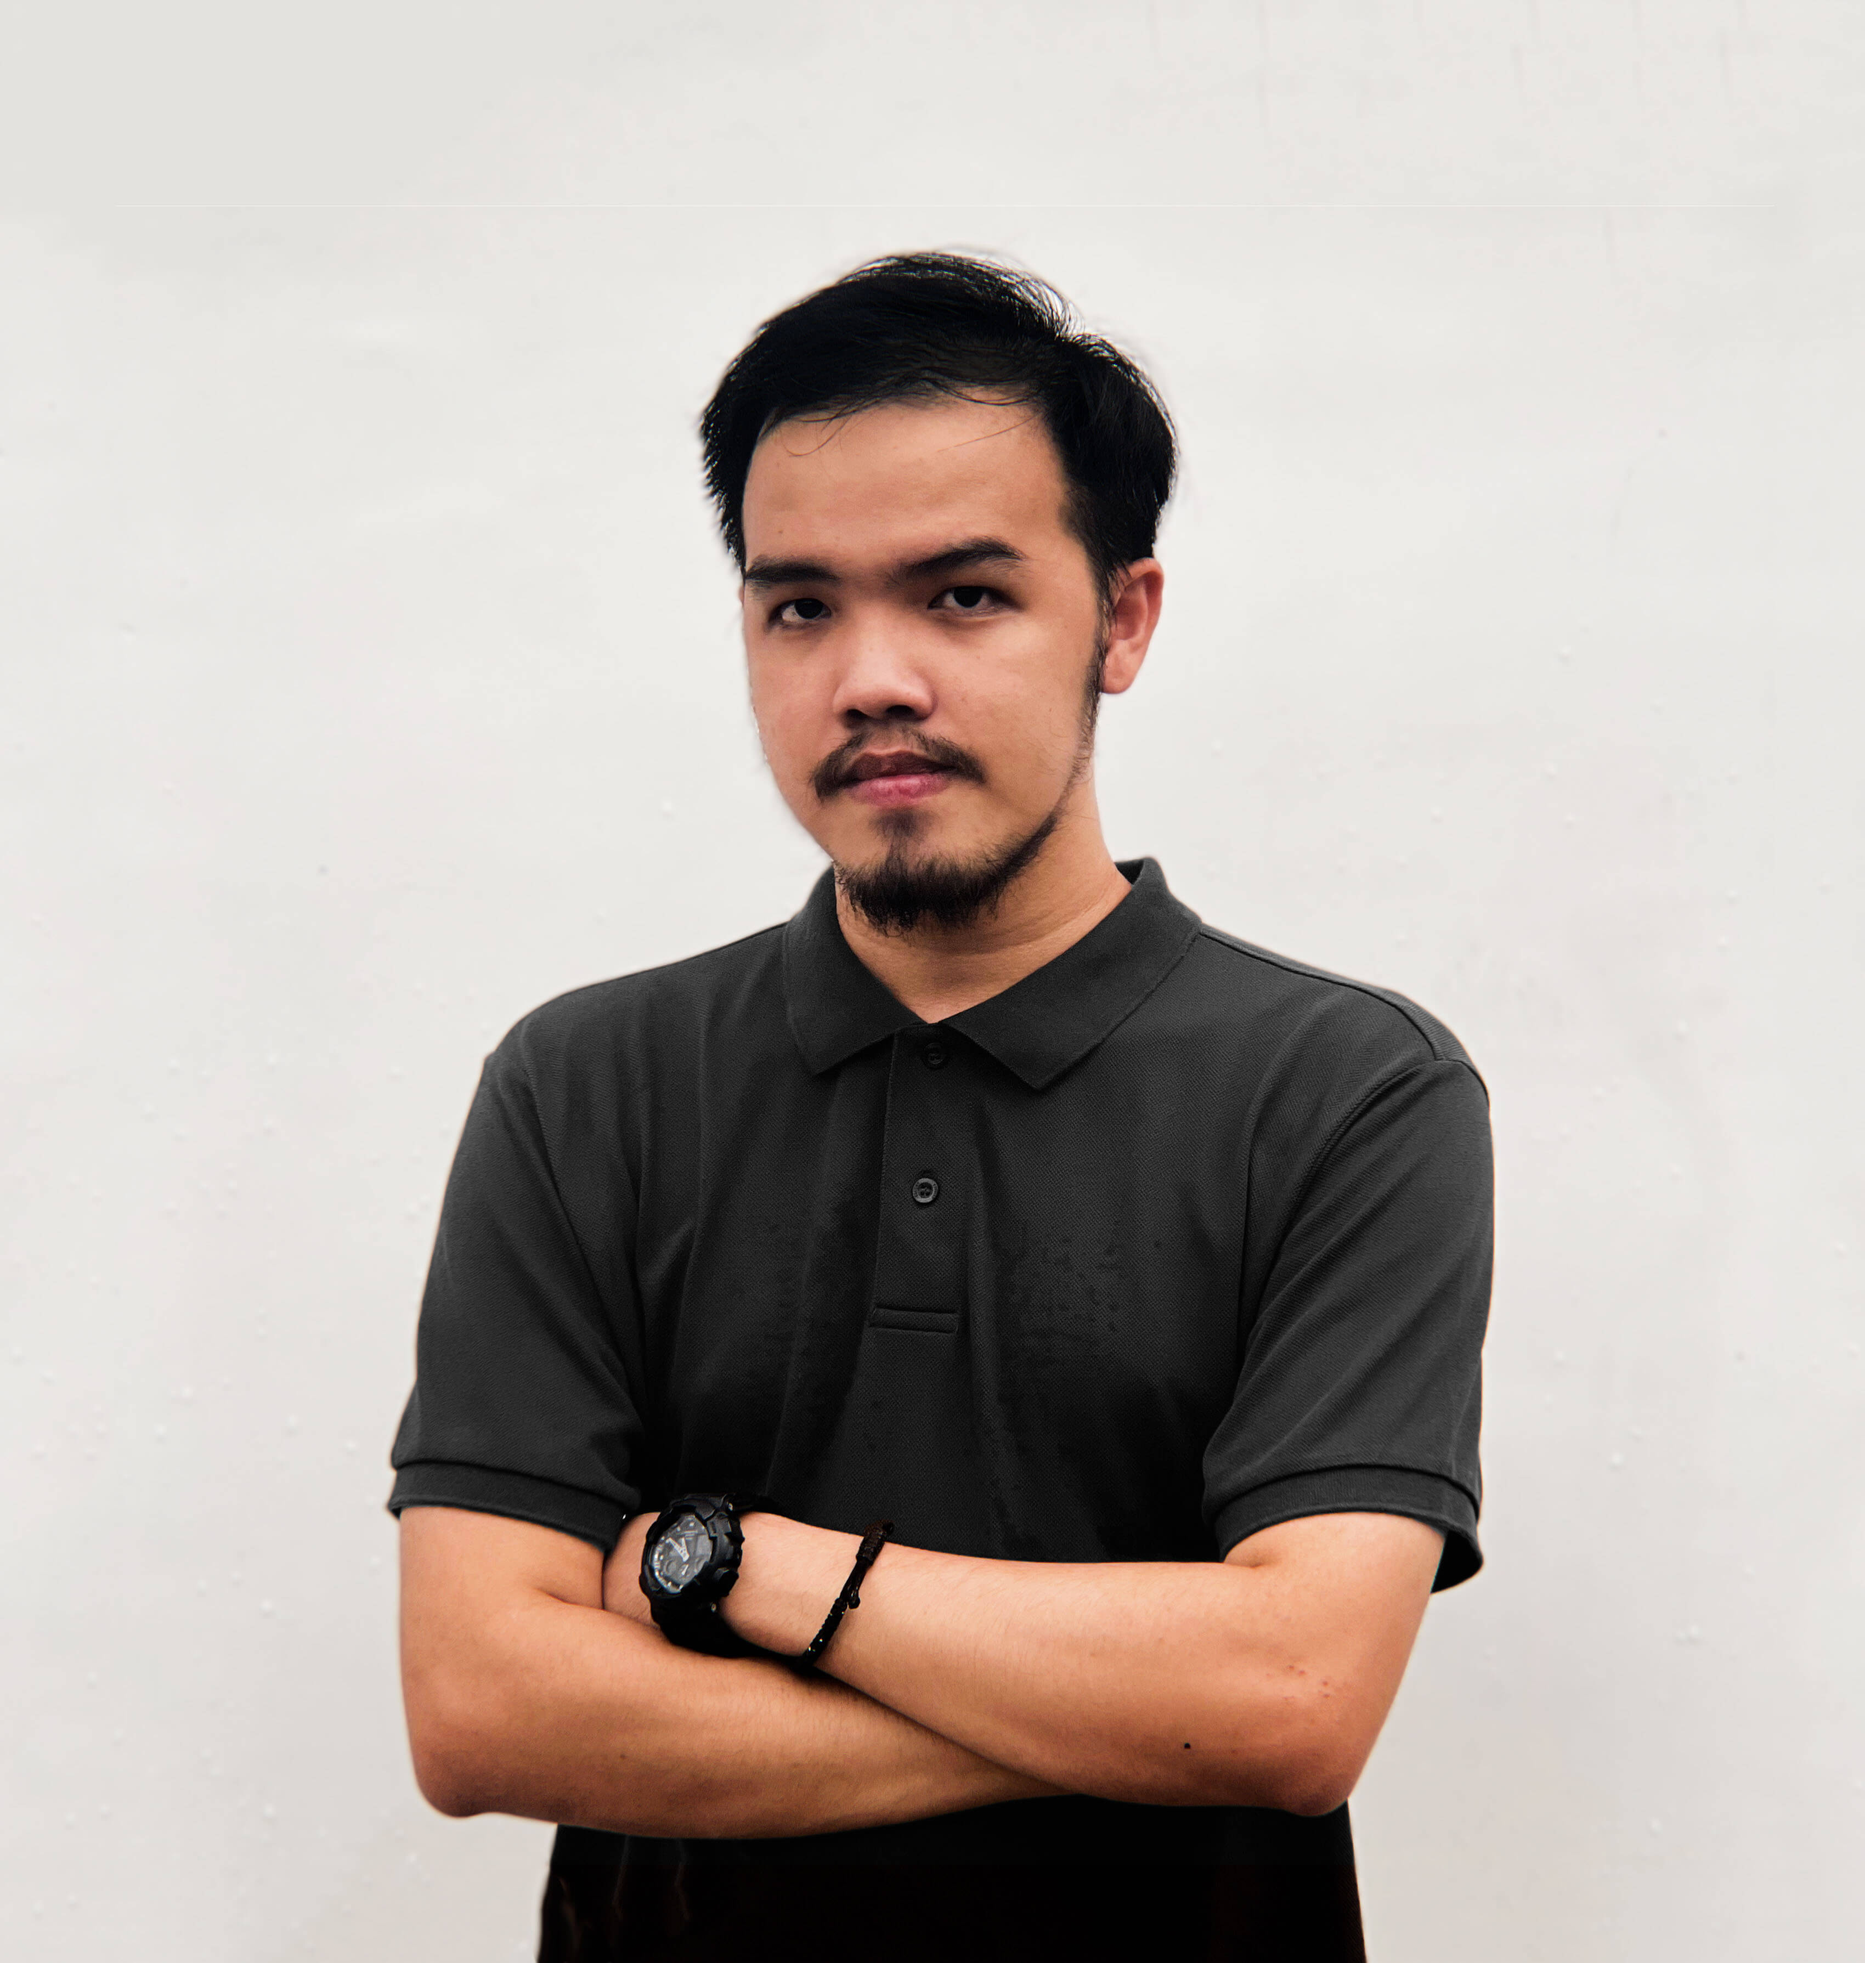
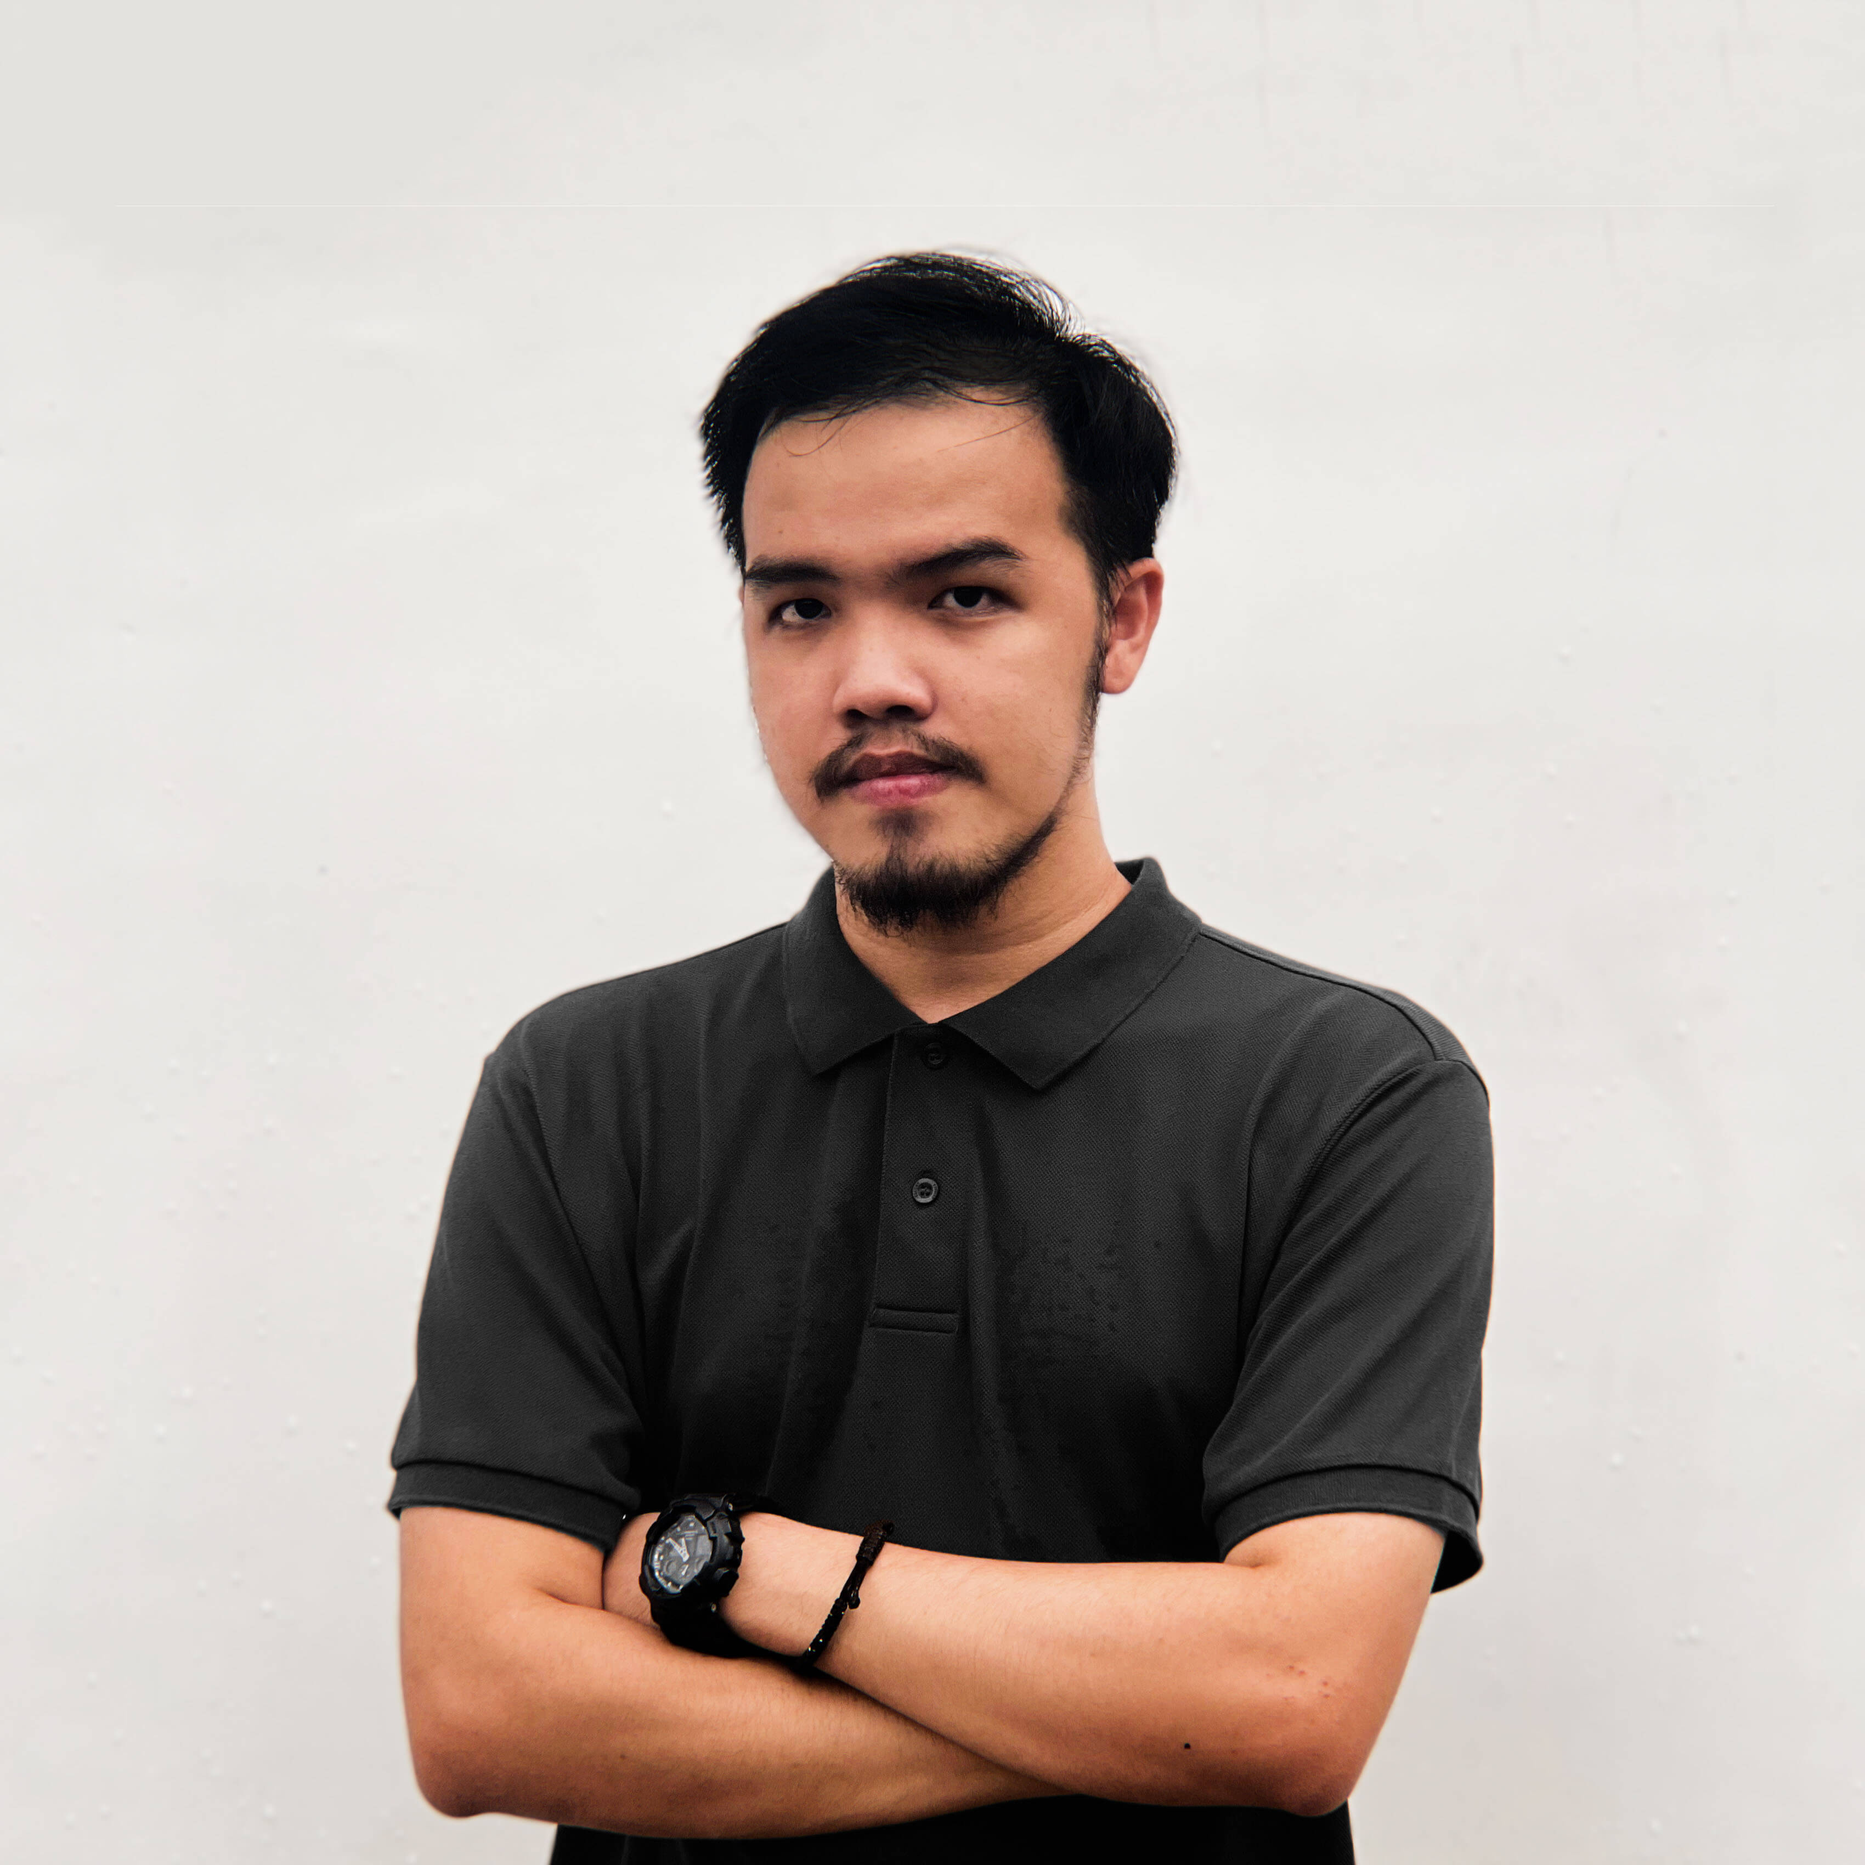
:lipstick: replace profile with square one and add shadow

diff --git a/sections/AboutSection.tsx b/sections/AboutSection.tsx
@@ -121,7 +121,7 @@ const AboutSection: React.FC = () => {
           </div>
           <div className="md:flex md:space-x-8">
             <div className="basis-2/5 lg:basis-1/2 xl:basis-3/5 flex justify-center items-center">
-              <div className="relative w-72">
+              <div className="relative w-72 h-72">
                 <svg
                   width="96"
                   height="21"
@@ -132,14 +132,14 @@ const AboutSection: React.FC = () => {
                   <path d="M79.2202 0.959991L62.7802 17.32L46.3301 0.959991L29.8902 17.32L13.4501 0.959991L0.410156 13.94L0.400146 17.58L13.4501 4.58999L29.8902 20.95L46.3301 4.58999L62.7802 20.95L79.2202 4.58999L93.7302 19.02L95.5402 17.19L79.2202 0.959991Z" />
                 </svg>
 
-                <div className="profile-picture">
+                <div className="profile-picture h-72 rounded-md shadow-2xl">
                   <Image
                     src={satNaing}
                     width={3400}
-                    height={3579}
+                    height={3400}
                     priority
                     alt="Sat Naing profile picture"
-                    className="drop-shadow-lg rounded-md"
+                    className="rounded-md"
                   />
                 </div>
 
